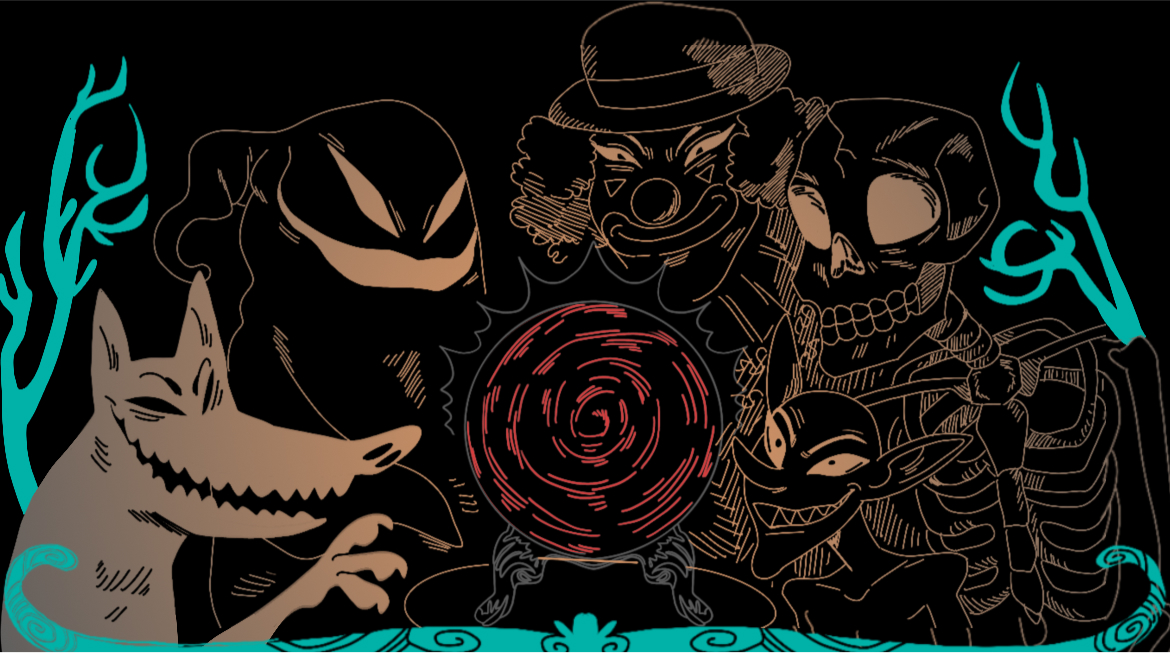
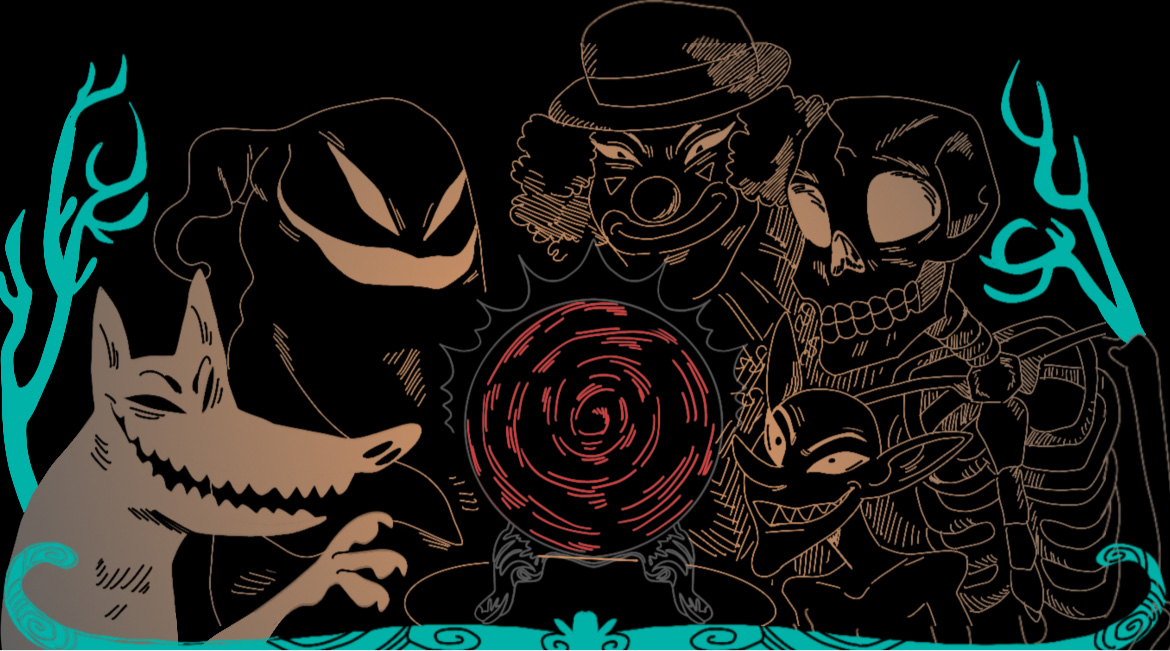
commit

diff --git a/src/assets/sass/blocks/header.scss b/src/assets/sass/blocks/header.scss
@@ -5,6 +5,19 @@ header {
   max-width: 1920px;
   margin: 0 auto;
   position: relative;
+  // background: linear-gradient(180deg, rgba(0, 0, 0, 1) 0%, rgba(0, 0, 0, 1) 50%, rgba(0, 0, 0, 0) 100%);
+
+  &::before {
+    content: '';
+    display: block;
+    position: absolute;
+    left: 0;
+    top: 0;
+    width: 100%;
+    height: 120%;
+    background: linear-gradient(180deg, rgba(0, 0, 0, 1) 0%, rgba(0, 0, 0, 1) 50%, rgba(0, 0, 0, 0) 100%);
+    z-index: -1;
+  }
 
   @media (max-width: $tablets-max) {}
 }

diff --git a/src/components/PlusMinusInput.vue b/src/components/PlusMinusInput.vue
@@ -50,7 +50,7 @@ export default {
     }
   },
   mounted() {
-    this.$refs.input.focus()
+    // this.$refs.input.focus()
   },
   methods: {
     decrease() {
